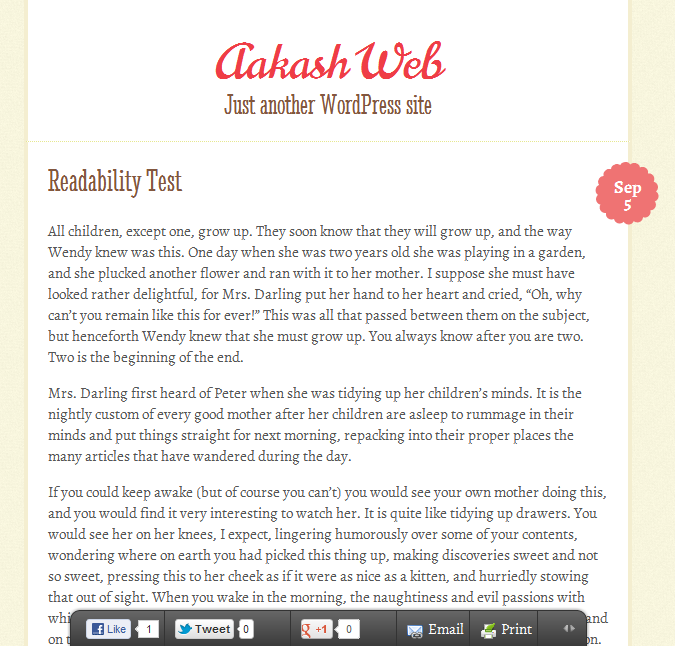
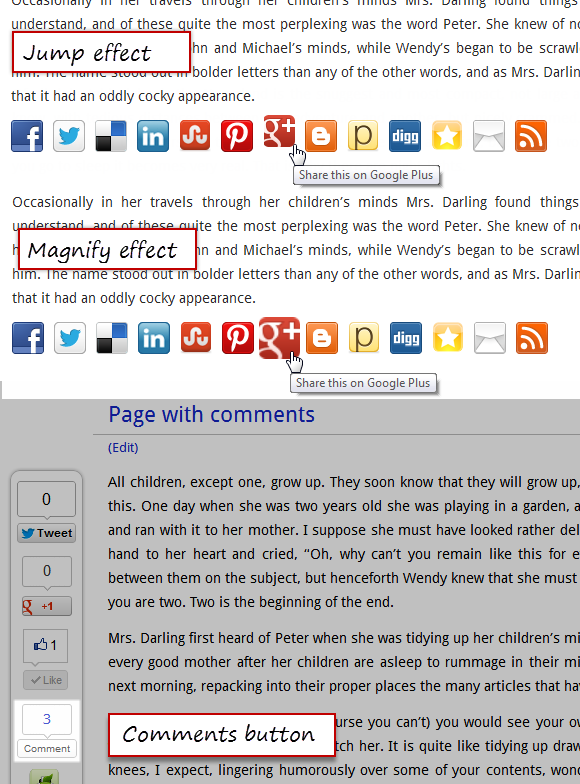
git-svn-id: https://plugins.svn.wordpress.org/wp-socializer/trunk@581954 b8457f37-d9ea-0310-8a92-e5e31aec5664

diff --git a/public/css/wp-socializer-buttons-css.css b/public/css/wp-socializer-buttons-css.css
@@ -1,5 +1,5 @@
 /*
- * WP Socializer Social buttons - CSS File - v2.3
+ * WP Socializer Social buttons - CSS File - v2.4
  * Author: Aakash Chakravarthy
  */
 
@@ -56,13 +56,32 @@
 	filter:alpha(opacity=100);
 	opacity: 1;
 }
-.wp-socializer-jump li {
-	margin: 0px;	
+.wp-socializer-jump li img{
+	-webkit-transition: all 200ms linear;
+	-moz-transition: all 200ms linear;
+	-o-transition: all 200ms linear;
+	transition: all 200ms linear;
 }
-.wp-socializer-jump li:hover {
-	margin-top: -5px;
+.wp-socializer-jump li:hover img{
+	transform: translateY(-5px);
+	-ms-transform: translateY(-5px);
+	-webkit-transform: translateY(-5px);
+	-o-transform: translateY(-5px);
+	-moz-transform: translateY(-5px);
 }
-
+.wp-socializer-magnify li img{
+	-webkit-transition: all 200ms linear;
+	-moz-transition: all 200ms linear;
+	-o-transition: all 200ms linear;
+	transition: all 200ms linear;
+}
+.wp-socializer-magnify li:hover img{
+	transform: scale(1.3);
+	-ms-transform: scale(1.3);
+	-webkit-transform: scale(1.3);
+	-o-transform: scale(1.3);
+	-moz-transform: scale(1.3);
+}
 /** Columns **/
 .columns-5 li{
 	width: 19%;
@@ -208,6 +227,9 @@
 .wpsr-floatbar-dark .wpsr_floatbt a{
 	color: white !important;
 }
+.wpsr-floatbar-dark .wpsr_floatbt .wpsr_commentsbt a{
+	color: black !important;
+}
 
 /* Link back */
 .wpsr-floatbar-float_left .wpsr-linkback{
@@ -256,6 +278,38 @@
 }
 .wpsr_hidebt:hover{
 	opacity: 0.5;
+}
+
+/* Comments Button */
+.wpsr_commentsbt .wpsr_cmt_bubble{
+	background: url(images/comments-bg.png) no-repeat center top;
+	height: 35px;
+	width: 50px;
+	text-align: center;
+	margin: 0 auto;
+	line-height: 0px;
+}
+.wpsr_commentsbt .wpsr_cmt_bubble a{
+	display: inline-block;
+	margin-top: 15px;
+	text-decoration: none;
+}
+.wpsr_commentsbt .wpsr_cmt_button{
+	background: url(images/grey-bg.png) repeat-x -70px;
+	border: 1px solid #ccc;
+	-webkit-border-radius: 3px;
+	border-radius: 3px;
+	padding: 2px;
+	line-height: 0px;
+}
+.wpsr_commentsbt .wpsr_cmt_button:hover, .wpsr_commentsbt .wpsr_cmt_bubble:hover{
+	opacity: 0.5;
+}
+.wpsr_commentsbt .wpsr_cmt_button a{
+	color: #666666;
+	text-decoration: none;
+	font: 10px Arial, Helvetica, sans-serif;
+	border: 0px;
 }
 
 /* Misc */

diff --git a/public/js/wp-socializer-floating-bar-js.js b/public/js/wp-socializer-floating-bar-js.js
@@ -1,12 +1,23 @@
 /*
  * Copyright 2012 Aakash Chakravarthy - www.aakashweb.com
  * Created for WP Socializer - Wordpress Plugin
+ * v1.2
 */
+
+if(typeof jQuery == 'undefined'){
+	if(typeof document.getElementsByClassName == 'function'){
+		document.getElementsByClassName('wpsr-floatbar-float_left')[0].style.display = 'none';
+		console.log('WP Socializer float bar: There is a Javascript error in the page and the floatbar is hidden');
+	}
+}
 
 jQuery(document).ready(function(){
 	var $floatbar = jQuery(".wpsr-floatbar-float_left");
 	var $anchor = jQuery('.wpsr_floatbts_anchor');
-
+	
+	// Init effects
+	$floatbar.hide().fadeIn(2000);
+	
     // Position the left float bar to the anchor
 	var wpsr_position_floatbar = function(){
 		anchorOffset = jQuery('.wpsr_floatbts_anchor').offset();
@@ -27,7 +38,7 @@ jQuery(document).ready(function(){
 				c.css({position:"fixed", top: "30px"});
 			}else{
 				if(b<=d){
-					c.css({position:"absolute", top: anchorOffset.top + "px",});
+					c.css({position:"absolute", top: anchorOffset.top + "px"});
 				}
 			}
 		});
@@ -37,6 +48,10 @@ jQuery(document).ready(function(){
 	jQuery(window).resize(function(){
 		wpsr_position_floatbar();
 	});
+	
+	window.onload = function(){
+		wpsr_position_floatbar();
+	};
 	
 	wpsr_position_floatbar();
 	

diff --git a/admin/wpsr-admin-js.js b/admin/wpsr-admin-js.js
@@ -121,7 +121,7 @@ $j(document).ready(function(){
 		var text =  $j(this).siblings('.sbName').text();
 		var appendList = '<li><span class="sbName">' + text + '</span><span class="sbDelete">x</span></li>';
 		var pixel = $j(this).attr('data-pixel');
-		
+	
 		$j('#sbSelList_' + pixel + 'px' ).append(appendList);
 		wpsr_socialbt_selectedgenerator();
 	});

diff --git a/admin/wpsr-admin-css.css b/admin/wpsr-admin-css.css
@@ -323,6 +323,16 @@
 	cursor: pointer;
 	color: #FF0000;
 }
+.sbSettingsBt{
+	font-size: 18px;
+	float: right;
+	margin-top: -60px;
+	margin-right: 10px;
+	color: #fff;
+	text-decoration: none;
+	background: #00CC00;
+	padding: 10px;
+}
 
 /************/
 

diff --git a/admin/wpsr-admin.php b/admin/wpsr-admin.php
@@ -763,6 +763,8 @@ function wpsr_admin_page(){
 		<div class="inWindow winSocialBts">
 		<input type="hidden" id="wpsr_socialbt_selected16px" name="wpsr_socialbt_selected16px" value="<?php echo $wpsr_socialbt['selected16px']; ?>" />
 		<input type="hidden" id="wpsr_socialbt_selected32px" name="wpsr_socialbt_selected32px" value="<?php echo $wpsr_socialbt['selected32px']; ?>" />
+		<a href="#settings" class="sbSettingsBt">Settings</a>
+		
 		<h3>Select the required social bookmarking buttons</h3>
 		
 		<div class="section clearfix">
@@ -820,7 +822,7 @@ function wpsr_admin_page(){
 		</div>
 			
 		</div>
-		
+		<a id="settings"></a>
 		<h3><?php _e('Settings', 'wpsr'); ?></h3>
 		<div class="section">
 		<table width="100%" border="0">
@@ -841,9 +843,10 @@ function wpsr_admin_page(){
 		  </tr>
 		  
 		  <tr>
-			<td height="35"><?php _e('Image on Hover effect', 'wpsr'); ?> </td>
+			<td height="35"><?php _e('Image on Hover effect', 'wpsr'); ?> <small class="redText">New effects</small></td>
 			<td><select id="wpsr_socialbt_effect" name="wpsr_socialbt_effect">
-			  <option <?php echo $wpsr_socialbt['effect'] == 'jump' ? ' selected="selected"' : ''; ?> value="jump">Jump Effect</option>
+			  <option <?php echo $wpsr_socialbt['effect'] == 'magnify' ? ' selected="selected"' : ''; ?> value="magnify">Magnify Effect (New)</option>
+			  <option <?php echo $wpsr_socialbt['effect'] == 'jump' ? ' selected="selected"' : ''; ?> value="jump">Jump Effect (Updated)</option>
 			  <option <?php echo $wpsr_socialbt['effect'] == 'opacity' ? ' selected="selected"' : ''; ?> value="opacity">Transparency Effect</option>
 			  <option <?php echo $wpsr_socialbt['effect'] == 'none' ? ' selected="selected"' : ''; ?> value="none"><?php _e('No Effect', 'wpsr'); ?></option>
 			</select></td>

diff --git a/wp-socializer.php b/wp-socializer.php
@@ -1,7 +1,7 @@
 <?php
 /*
 Plugin Name: WP Socializer
-Version: 2.4.3
+Version: 2.4.4
 Plugin URI: http://www.aakashweb.com/
 Description: WP Socializer is an advanced plugin for inserting all kinds of Social bookmarking & sharing buttons. It has super cool features to insert the buttons into posts, sidebar. It also has Floating sharebar. <a href="http://youtu.be/1uimAE8rFYE" target="_blank">Check out the demo video</a>.
 Author: Aakash Chakravarthy
@@ -14,7 +14,7 @@ if(!defined('WP_CONTENT_URL')) {
 	$wpsr_url = WP_CONTENT_URL . '/plugins/' . plugin_basename(dirname(__FILE__)) . '/';
 }
 
-define('WPSR_VERSION', '2.4.3');
+define('WPSR_VERSION', '2.4.4');
 define('WPSR_AUTHOR', 'Aakash Chakravarthy');
 define('WPSR_URL', $wpsr_url);
 define('WPSR_PUBLIC_URL', WPSR_URL . 'public/');
@@ -957,6 +957,10 @@ $wpsr_floating_bar_bts = array(
 	'Pinterest' => array(
 		'float_left' => '[wpsr_pinterest type="vertical"]', 
 		'bottom_fixed' => '[wpsr_pinterest type="horizontal"]', 
+	),
+	'Comments' => array(
+		'float_left' => '[wpsr_commentsbt type="vertical"]', 
+		'bottom_fixed' => '[wpsr_commentsbt type="horizontal"]', 
 	),
 	'Email' => array(
 		'float_left' => '[wpsr_socialbts output="singles" type="32px" services="email" sprites=0 effect=none]',

diff --git a/includes/wpsr-floatingbar.php b/includes/wpsr-floatingbar.php
@@ -1,7 +1,7 @@
 <?php
 /*
  * Floating share bar Processor code for WP Socializer Plugin
- * Version : 1.1
+ * Version : 1.2
  * Since : v2.4
  * Author : Aakash Chakravarthy
 */
@@ -77,4 +77,41 @@ function wpsr_floatingbts_anchor($content = ''){
 	}
 }
 add_action('the_content', 'wpsr_floatingbts_anchor');
+
+## Floating sharebar comments button (Beta)
+function wpsr_floatingbts_commentbt($args){
+	global $post;
+	
+	$defaults = array (
+		'type' => 'vertical'
+	);
+	
+	$args = wp_parse_args($args, $defaults);
+	extract($args, EXTR_SKIP);
+	
+	$comments_num = get_comments_number();
+
+	if ( comments_open() ) {
+		if($type == 'vertical'){
+			return '<div class="wpsr_commentsbt">
+				<div class="wpsr_cmt_bubble" title="Comments"><a href="' . get_comments_link() .'">' . $comments_num . '</a></div>
+				<div class="wpsr_cmt_button"><a href="' . get_comments_link() .'">Comment</a></div>
+			</div>';
+		}else{
+		
+			if ( $comments_num == 0 ) {
+				$comments = __('No Comments');
+			} elseif ( $comments_num > 1 ) {
+				$comments = $comments_num . __(' Comments');
+			} else {
+				$comments = __('1 Comment');
+			}
+		
+			return '<a href="' . get_comments_link() .'">' . $comments . '</a>';
+		}
+	} else {
+		return '';
+	}
+	
+}
 ?>

diff --git a/includes/wpsr-shortcodes.php b/includes/wpsr-shortcodes.php
@@ -1,7 +1,7 @@
 <?php
 /*
  * Shortcodes for WP Socializer plugin
- * Version : 2.1
+ * Version : 2.2
  * Author : Aakash Chakravarthy
  * Since : 2.0
  */
@@ -85,4 +85,10 @@ function wpsr_pinterest_shortcode($atts){
 	return wpsr_pinterest($atts) . wpsr_pinterest_script();
 }
 add_shortcode('wpsr_pinterest', 'wpsr_pinterest_shortcode');
+
+## Comments Shortcode - Floating sharebar - since v2.4.4 (Beta)
+function wpsr_commentsbt_shortcode($atts){
+	return wpsr_floatingbts_commentbt($atts);
+}
+add_shortcode('wpsr_commentsbt', 'wpsr_commentsbt_shortcode');
 ?>

diff --git a/admin/wpsr-admin-floating-bar.php b/admin/wpsr-admin-floating-bar.php
@@ -116,6 +116,7 @@ function wpsr_admin_page_floating_bar(){
 	<h3>Select the buttons</h3>
 	<div class="section">
 		<h4>Available buttons &nbsp; <small class="smallText">(Click to add buttons)</small></h4>
+		<small><span class="redText">New:</span> Try out the new comments button (Beta) (<a href="http://www.aakashweb.com/wordpress-plugins/wp-socializer/" target="_blank">Feedback</a>)</small>
 		<ul class="floatBtsList clearfix">
 			<?php
 				global $wpsr_floating_bar_bts;
